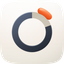
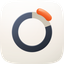
mac-doctor: fix the freed wedge's placement
Reported as improper placement of the red section, and it was. Overlaying the
authored geometry on the render showed two faults at once: the wedge spanned 34
degrees against a 70 degree gap, and it was lifted 104px, over a third of the
ring radius. Together those made it read as a bean floating near the ring rather
than the piece that came out of it.

The correction is not simply wider and closer, because both directions fail and
each looks reasonable on its own. Swept instead:

  24.4 / 62   wedge covers the gap, so the ring stops reading as nearly full,
              which is the entire message
  19.0 / 88   shipped. Pale track visible either side, clear daylight between
  16.0 / 104  wedge stops belonging to the gap, reads as an unrelated mark

A detail worth leaving in the constants for whoever edits them next: round caps
extend the arc by (W/2)/R radians at each end, 21.2 degrees in total here, so
the authored 38 degrees renders as about 59. The authored number is not the
number you see, which is most of why the first attempt was misjudged.

16px survival re-checked after the change; ring, gap and wedge still read as
three distinct marks. Take A's audit renders and the banner regenerated against
the new master, and the audit verdict now records round three.

Changed region(s): [[0.5625, 0.0938, 0.8125, 0.3438]]

diff --git a/plugins/mac-doctor/assets/audit.html b/plugins/mac-doctor/assets/audit.html
@@ -47,7 +47,7 @@
       <figure><img class="zoom" src="audit-renders/A-32.png" width="96" height="96" alt="Take A 16 pixel render magnified six times"><figcaption>16 &times;6</figcaption></figure>
     </td>
     <td class="score ship">11 / 12</td>
-    <td class="verdict">Passes all four non-negotiables. Mask discipline correct: authored against the family superellipse from create-mac-icon/assets/squircle-path.txt, no baked corners. Silhouette names the subject as a filled solid, and at 16px the ring, its gap and the freed wedge all still read as three distinct marks. Ground values sampled from the family's own icons (#FDFDFC to #EDE9DF warm porcelain) rather than from Apple's cooler #FEFFFF to #DFE3EB, because family consistency outranks the platform sample here. Round two added concentric edge catches, outer top and inner bounce, after C showed the master was flat: the first take used a displaced copy of the arc, which produced no visible edge at all. Loses one point on 11 (personality): the device is a ring gauge, which is a legible but not a surprising mark.</td>
+    <td class="verdict">Passes all four non-negotiables. Mask discipline correct: authored against the family superellipse from create-mac-icon/assets/squircle-path.txt, no baked corners. Silhouette names the subject as a filled solid, and at 16px the ring, its gap and the freed wedge all still read as three distinct marks. Ground values sampled from the family's own icons (#FDFDFC to #EDE9DF warm porcelain) rather than from Apple's cooler #FEFFFF to #DFE3EB, because family consistency outranks the platform sample here. Round two added concentric edge catches, outer top and inner bounce, after C showed the master was flat: the first take used a displaced copy of the arc, which produced no visible edge at all. Round three fixed the wedge placement: at 34 degrees lifted 104px it read as a bean floating near the ring rather than the piece that came out of it, and the two obvious corrections both fail in opposite directions, so the pair was swept. 38 degrees lifted 88px keeps the pale track visible either side with clear daylight between. Loses one point on 11 (personality): the device is a ring gauge, which is a legible but not a surprising mark.</td>
   </tr>
   <tr>
     <td class="take fail">C · icon-engineC-raster.png<small>GPT Image 2, corpus-referenced raster — material target, not shipped</small></td>

diff --git a/plugins/mac-doctor/assets/build_icon.py b/plugins/mac-doctor/assets/build_icon.py
@@ -42,8 +42,18 @@ R = 292                 # ring radius
 W = 108                 # ring stroke
 GAP_MID = -55.0         # bisector of the gap, degrees, 0 = +x, y down
 GAP_HALF = 35.0         # half-width of the gap
-WEDGE_HALF = 17.0       # half-width of the freed wedge
-WEDGE_LIFT = 104        # px along the bisector
+# Half-width of the freed wedge, and its lift along the bisector. These two
+# trade against each other and were swept rather than guessed, because both
+# failure modes look reasonable in isolation:
+#   wide and near (24.4 / 62)  -> the wedge covers the gap, so the ring stops
+#                                 reading as nearly full, which is the message
+#   narrow and far (16 / 104)  -> the wedge stops belonging to the gap and
+#                                 reads as an unrelated mark floating nearby
+# 19 / 88 keeps the pale track visible either side of the wedge while leaving
+# clear daylight between them. Note the round caps add (W/2)/R radians at each
+# end, 21.2 degrees in total, so the authored 38 degrees reads as about 59.
+WEDGE_HALF = 19.0
+WEDGE_LIFT = 88
 SCALE = 0.93            # composition scale, keeps the lifted wedge off the edge
 
 # ---- material ---------------------------------------------------------------

diff --git a/plugins/mac-doctor/assets/icon-notes.md b/plugins/mac-doctor/assets/icon-notes.md
@@ -34,6 +34,25 @@ a local ground of `(233,234,235)`: roughly 12% darker and tinted toward the
 object's own hue, not a neutral grey. So the graphite ring casts cool
 (`#2A2F38`) and the ember wedge casts warm (`#C0430F`).
 
+## Wedge placement, swept rather than guessed
+
+The first build put the wedge at 34 degrees of arc lifted 104px, and it read as
+a separate bean floating near the ring instead of the piece that came out of it.
+Two things were wrong. The arc was half the width of the 70 degree gap, and the
+lift was over a third of the ring radius.
+
+The correction is not simply "wider and closer", because both directions fail:
+
+| half / lift | what it does |
+|---|---|
+| 24.4 / 62 | wedge covers the gap, so the ring stops reading as nearly full |
+| 19.0 / 88 | **shipped.** Track visible either side, clear daylight between |
+| 16.0 / 104 | wedge stops belonging to the gap, reads as an unrelated mark |
+
+Worth noting for anyone editing these constants: round caps extend the arc by
+(W/2)/R radians at each end, 21.2 degrees in total here, so the authored 38
+degrees renders as about 59. The authored number is not the number you see.
+
 ## What the raster take changed
 
 Engine C won the material read, as the skill predicts, and lost everything
